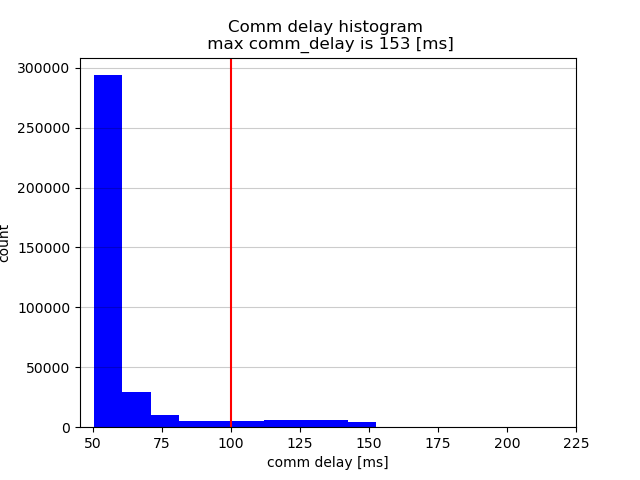
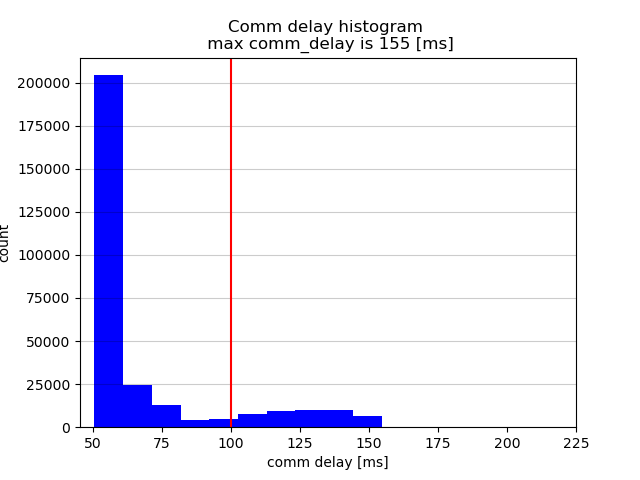
minor

diff --git a/mader/other/sim/comm_delay_histogram_percentile.py b/mader/other/sim/comm_delay_histogram_percentile.py
@@ -27,87 +27,108 @@ import numpy
 
 if __name__ == '__main__':
 
-    cd = "50" # [ms] communication delay
-
-
     # you wanna get histogram or know the value at q-th percentile
     is_histogram = True
     # q-th percentile
     q = 75
 
-    is_oldmader = True
+    is_oldmader = False # always False bc oldmader doesn't have comm_delay
     num_of_agents = 10
 
     if is_oldmader:
-        dc_list = [0, 160, 120, 100, 78, 63, 55, 51] #dc_list[0] will be used for old mader (which doesn't need delay check) so enter some value (default 0)
+        cd_list = [50, 100]
+        # dc_list = [0, 160, 120, 100, 78, 63, 55, 51] #dc_list[0] will be used for old mader (which doesn't need delay check) so enter some value (default 0)
     else:
-        dc_list = [160, 120, 100, 78, 63, 55, 51] #dc_list[0] will be used for old mader (which doesn't need delay check) so enter some value (default 0)
+        cd_list = [50, 100]
+        # dc_list = [160, 120, 100, 78, 63, 55, 51] #dc_list[0] will be used for old mader (which doesn't need delay check) so enter some value (default 0)
 
-    for dc in dc_list:
+    for cd in cd_list:
 
-        figname = 'cd'+cd+'dc'+str(dc)+'_rmader_comm_delay_histogram.png'
-        source_dir = "/home/kota/data/bags" # change the source dir accordingly #10 agents 
-        if is_oldmader:
-            source_bags = source_dir + "/oldmader/cd"+cd+"ms/*.bag" # change the source dir accordingly #10 agents
-            is_oldmader = False
+        # is_oldmader=True
+
+        if cd == 50:
+            dc_list = [160, 100, 60, 55, 51, 50.5, 50.1] #dc_list[0] will be used for old mader (which doesn't need delay check) so enter some value (default 0)
+        elif cd == 100:
+            # dc_list = [230, 210, 150, 110, 105, 101, 100.5, 100.1] #dc_list[0] will be used for old mader (which doesn't need delay check) so enter some value (default 0)
+            dc_list = [210, 150, 110, 105, 101, 100.5, 100.1] #dc_list[0] will be used for old mader (which doesn't need delay check) so enter some value (default 0)
         else:
-            source_bags = source_dir + "/rmader/cd"+cd+"msdc"+str(dc)+"ms/*.bag" # change the source dir accordingly #10 agents
-
-        rosbag_list = glob.glob(source_bags)
-        rosbag_list.sort() #alphabetically order
-        rosbag = []
-        comm_delay = []
-
-        # comm_delay you use
-        input_comm_delay = dc/1000
-
-        for bag in rosbag_list:
-            rosbag.append(bag)
-
-        # print(rosbag)
-
-        for i in range(len(rosbag)):
-
-            b = bagreader(rosbag[i], verbose=False);
+            dc_list =[]
             
-            for i in range(1,num_of_agents+1):
-                if i < 10:
-                    log_data = b.message_by_topic("/SQ0" + str(i) + "s/mader/comm_delay")
-                else:
-                    log_data = b.message_by_topic("/SQ" + str(i) + "s/mader/comm_delay")
+        for dc in dc_list:
+            
+            # comm_delay you use
+            input_comm_delay = dc/1000
 
-                log = pd.read_csv(log_data)
+            if dc == 50.5:
+                dc = 50_5
+            elif dc == 50.1:
+                dc = 50_1
+            elif dc == 100.5:
+                dc = 100_5
+            elif dc == 100.1:
+                dc = 100_1
 
-                for j in range(len(log.comm_delay)):
-                    comm_delay.append(log.comm_delay[j])
-
-        # print percentile
-
-        comm_delay_arr = numpy.array(comm_delay)
-
-        if is_histogram:
-            percentile = scipy.stats.percentileofscore(comm_delay_arr, input_comm_delay, kind='mean')
-            os.system('echo "cd='+cd+', dc='+str(dc)+':   '+str(input_comm_delay) + ' is ' + str(percentile) + '-th percentile" >> '+source_dir+'/comm_delay_percentile.txt')
-            # print(comm_delay)
-            max_comm_delay = max(comm_delay)
-
-            fig = plt.figure()
-            ax = fig.add_subplot()
-            n, bins, patches = plt.hist(x=comm_delay, color="blue")
-            plt.axvline(x=dc/1000, color="red")
-            ax.set_xticks(np.arange(0.05,0.250,0.025))
-            ax.set_xticklabels(np.arange(50,250,25))
-            # plt.rcParams["font.family"] = "Times New Roman"
-            plt.grid(axis='y', color='black', alpha=0.2)
-            plt.title('Comm delay histogram \n max comm_delay is '+str(round(max_comm_delay*1000))+' [ms]')
-            plt.xlabel("comm delay [ms]")
-            plt.ylabel("count")
-            plt.savefig('/home/kota/ws/src/mader/mader/other/sim/data/'+figname)
-            # plt.show()
-        else:
-            # in case you wanna calculate the value of q-th percentile
-            print(str(q) + "-th percentile value is " + str(numpy.percentile(comm_delay_arr, q)))
-            if q > 0:
-                q = q -25
+            figname = 'cd'+str(cd)+'dc'+str(dc)+'_rmader_comm_delay_histogram.png'
+            source_dir = "/home/kota/data/bags" # change the source dir accordingly #10 agents 
+            if is_oldmader:
+                source_bags = source_dir + "/oldmader/cd"+str(cd)+"ms/*.bag" # change the source dir accordingly #10 agents
+                is_oldmader = False
             else:
-                sys.exit()
+                source_bags = source_dir + "/rmader/cd"+str(cd)+"msdc"+str(dc)+"ms/*.bag" # change the source dir accordingly #10 agents
+
+            rosbag_list = glob.glob(source_bags)
+            rosbag_list.sort() #alphabetically order
+            rosbag = []
+            comm_delay = []
+
+
+            for bag in rosbag_list:
+                rosbag.append(bag)
+
+            # print(rosbag)
+
+            for i in range(len(rosbag)):
+
+                b = bagreader(rosbag[i], verbose=False);
+                
+                for i in range(1,num_of_agents+1):
+                    if i < 10:
+                        log_data = b.message_by_topic("/SQ0" + str(i) + "s/mader/comm_delay")
+                    else:
+                        log_data = b.message_by_topic("/SQ" + str(i) + "s/mader/comm_delay")
+
+                    log = pd.read_csv(log_data)
+
+                    for j in range(len(log.comm_delay)):
+                        comm_delay.append(log.comm_delay[j])
+
+            # print percentile
+
+            comm_delay_arr = numpy.array(comm_delay)
+
+            if is_histogram:
+                percentile = scipy.stats.percentileofscore(comm_delay_arr, input_comm_delay, kind='mean')
+                os.system('echo "cd='+str(cd)+', dc='+str(dc)+':   '+str(input_comm_delay) + ' is ' + str(percentile) + '-th percentile" >> '+source_dir+'/comm_delay_percentile.txt')
+                # print(comm_delay)
+                max_comm_delay = max(comm_delay)
+
+                fig = plt.figure()
+                ax = fig.add_subplot()
+                n, bins, patches = plt.hist(x=comm_delay, color="blue")
+                plt.axvline(x=dc/1000, color="red")
+                ax.set_xticks(np.arange(0.05,0.250,0.025))
+                ax.set_xticklabels(np.arange(50,250,25))
+                # plt.rcParams["font.family"] = "Times New Roman"
+                plt.grid(axis='y', color='black', alpha=0.2)
+                plt.title('Comm delay histogram \n max comm_delay is '+str(round(max_comm_delay*1000))+' [ms]')
+                plt.xlabel("comm delay [ms]")
+                plt.ylabel("count")
+                plt.savefig('/home/kota/ws/src/mader/mader/other/sim/data/'+figname)
+                # plt.show()
+            else:
+                # in case you wanna calculate the value of q-th percentile
+                print(str(q) + "-th percentile value is " + str(numpy.percentile(comm_delay_arr, q)))
+                if q > 0:
+                    q = q -25
+                else:
+                    sys.exit()

diff --git a/mader/other/sim/collision_check.py b/mader/other/sim/collision_check.py
@@ -30,18 +30,36 @@ if __name__ == '__main__':
     is_oldmader = True # change here 
     
     if is_oldmader:
-        cd_list = [0, 50, 100, 150, 200, 300, 400, 500]
+        cd_list = [0, 50, 100]
         # dc_list = [0, 160, 120, 100, 78, 63, 55, 51] #dc_list[0] will be used for old mader (which doesn't need delay check) so enter some value (default 0)
-        dc_list = [0] #dc_list[0] will be used for old mader (which doesn't need delay check) so enter some value (default 0)
     else:
-        cd_list = [50, 100, 150, 200, 300, 400, 500]
+        # cd_list = [50, 100, 150, 200, 300, 400, 500]
+        cd_list = [50, 100]
         dc_list = [160, 120, 100, 78, 63, 55, 51] #dc_list[0] will be used for old mader (which doesn't need delay check) so enter some value (default 0)
 
     for cd in cd_list:
 
         is_oldmader=True
 
+        if cd == 50:
+            # dc_list = [160, 100, 60, 55, 51, 50.5, 50.1] #dc_list[0] will be used for old mader (which doesn't need delay check) so enter some value (default 0)
+            dc_list = [0] #dc_list[0] will be used for old mader (which doesn't need delay check) so enter some value (default 0)
+        elif cd == 100:
+            # dc_list = [230, 210, 150, 110, 105, 101, 100.5, 100.1] #dc_list[0] will be used for old mader (which doesn't need delay check) so enter some value (default 0)
+            dc_list = [0] #dc_list[0] will be used for old mader (which doesn't need delay check) so enter some value (default 0)
+        else:
+            dc_list =[0]
+            
         for dc in dc_list:
+
+            if dc == 50.5:
+                dc = 50_5
+            elif dc == 50.1:
+                dc = 50_1
+            elif dc == 100.5:
+                dc = 100_5
+            elif dc == 100.1:
+                dc = 100_1
 
             if is_oldmader:
                 source_dir = "/home/kota/data/bags/oldmader/cd"+str(cd)+"ms" # change the source dir accordingly #10 agents
